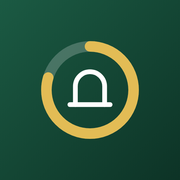
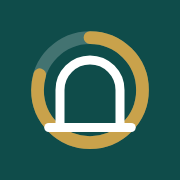
هوية مستقلة لكل تطبيق، وشعارات جديدة، وإدخال وقت البصمة يدويًا
Claude-Session: https://claude.ai/code/session_01ANLGtuhKEonbasyRdgpC9j

diff --git a/portal.html b/portal.html
@@ -1,12 +1,12 @@
 <!doctype html><html lang="ar" dir="rtl"><head><meta charset="utf-8"><meta name="viewport" content="width=device-width,initial-scale=1,viewport-fit=cover">
 <title>بوابة إنجاز · قسم الجاليات</title><meta name="robots" content="noindex"><meta name="theme-color" content="#FFFFFF" media="(prefers-color-scheme: light)"><meta name="theme-color" content="#121715" media="(prefers-color-scheme: dark)"><link rel="icon" type="image/png" href="brand/bawaba-64.png"><link rel="apple-touch-icon" href="brand/bawaba-180.png"><link rel="manifest" href="portal.webmanifest"><meta name="apple-mobile-web-app-capable" content="yes"><meta name="apple-mobile-web-app-title" content="بوابة إنجاز"><meta name="author" content="يوسف عبد المحسن المطيري"><script src="brand/brand.js" data-app="bawaba" defer></script>
-<link rel="preconnect" href="https://fonts.googleapis.com"><link rel="preconnect" href="https://fonts.gstatic.com" crossorigin><link href="https://fonts.googleapis.com/css2?family=IBM+Plex+Sans+Arabic:wght@400;500;600;700&display=swap" rel="stylesheet">
+<link rel="preconnect" href="https://fonts.googleapis.com"><link rel="preconnect" href="https://fonts.gstatic.com" crossorigin><link href="https://fonts.googleapis.com/css2?family=Tajawal:wght@400;500;700&family=Reem+Kufi:wght@500;600;700&display=swap" rel="stylesheet">
 <style>
-:root{--g:#0F5440;--g2:#0B4433;--gs:#E6EFEA;--ink:#14201B;--mu:#5F6B65;--line:#E5E1D6;--bg:#F6F5F0;--card:#FFFFFF;--bad:#A63F33;--bads:#F8E8E5;--w:#8C6416;--ws:#F7EEDB;--gold:#A47E35;--sh:0 1px 2px rgba(20,32,27,.04),0 12px 32px -14px rgba(20,32,27,.10)}
-@media (prefers-color-scheme:dark){:root{--bg:#0F1412;--card:#171D1A;--ink:#E4EAE7;--mu:#98A39E;--line:#26302B;--gs:#1C2A24;--g:#6FB295;--g2:#8CC6AC;--bads:#2D1C19;--ws:#2A2416;--sh:none}}
+:root{--g:#0F4C4A;--g2:#0A3A38;--gs:#E3EEEC;--ink:#10302E;--mu:#5B6B68;--line:#DCD2B6;--bg:#F6F1E3;--card:#FFFCF3;--bad:#A63F33;--bads:#F8E8E5;--w:#8C6416;--ws:#F7EEDB;--gold:#B8893B;--sh:0 1px 2px rgba(20,32,27,.04),0 12px 32px -14px rgba(20,32,27,.10)}
+@media (prefers-color-scheme:dark){:root{--bg:#0C1615;--card:#132120;--ink:#E8EEEC;--mu:#9BADA9;--line:#254240;--gs:#183230;--g:#5FB3AC;--g2:#86CEC8;--bads:#2D1C19;--ws:#2A2416;--sh:none}}
 *{box-sizing:border-box;-webkit-tap-highlight-color:transparent}
 html{-webkit-text-size-adjust:100%}
-body{margin:0;background:var(--bg);color:var(--ink);font:15px/1.65 "IBM Plex Sans Arabic","Segoe UI",Tahoma,sans-serif;-webkit-font-smoothing:antialiased}
+body{margin:0;background:var(--bg);color:var(--ink);font:15px/1.65 "Tajawal","Segoe UI",Tahoma,sans-serif;-webkit-font-smoothing:antialiased}
 button{font:inherit;color:inherit}
 /* top bar ، solid, respects the notch, nothing scrolls behind it */
 .bar{position:sticky;top:0;z-index:10;background:var(--card);border-bottom:1px solid var(--line);padding:calc(10px + env(safe-area-inset-top)) 16px 10px}
@@ -162,7 +162,9 @@ details summary{cursor:pointer;font-size:13.5px;font-weight:600;color:var(--g);l
 [dir=ltr] select{background-position:right 14px center;padding-left:14px;padding-right:36px}
 [dir=ltr] .rowb .row .go{display:inline-block;transform:scaleX(-1)}
 .ij-foot{direction:rtl}
-html[dir=ltr] body{font-family:"IBM Plex Sans Arabic","Segoe UI",system-ui,-apple-system,Roboto,sans-serif}
+html[dir=ltr] body{font-family:"Tajawal","Segoe UI",system-ui,-apple-system,Roboto,sans-serif}
+h1,h2,h3,.bar b{font-family:"Reem Kufi","Tajawal",sans-serif}
+.bar{border-bottom:4px solid #C9A24B}
 </style></head><body>
 <header class="bar"><div class="bar-in"><img class="mark" src="brand/bawaba-192.png" alt="" width="38" height="38" style="object-fit:cover"><div class="bar-t"><b>بوابة إنجاز</b><small id="cm">قسم الجاليات ورعاية المهتدين وطلبة البعوث</small></div><button type="button" class="lg" id="lgb" data-lgsheet aria-label="Language"><svg viewBox="0 0 24 24"><circle cx="12" cy="12" r="9"/><path d="M3 12h18M12 3c2.5 2.7 3.8 5.7 3.8 9s-1.3 6.3-3.8 9c-2.5-2.7-3.8-5.7-3.8-9S9.5 5.7 12 3z"/></svg></button><button type="button" class="av" id="av" hidden data-tab="me"></button></div></header>
 <main class="w" id="app"><div class="spin">جارٍ التحميل…</div></main>
@@ -296,7 +298,7 @@ function vTopic(){const t=TOPIC;if(!t)return'<div class="card empty">لا يوج
  (L==="ar"||!tr?'<h2 style="margin:6px 0 0;font-size:18px">'+e(t.title)+'</h2><div class="circ"><p>'+e(t.points||"").replace(/\n/g,"<br>")+'</p></div>'+(L!=="ar"&&!tr?'<p class="note">الترجمة لهذه اللغة قيد الإعداد.</p>':''):'<h2 dir="auto" style="margin:6px 0 0;font-size:18px">'+e(tr.title)+'</h2><div class="circ"><p dir="auto" style="line-height:2">'+e(tr.text).replace(/\n/g,"<br>")+'</p></div>')+
  '</div><button class="btn ghost" data-tab="home" style="margin-top:10px">رجوع</button>'}
 function certOpen(a){const w=window.open("","_blank");if(!w)return;const mn=new Date(a.month+"-01T00:00").toLocaleDateString("ar-KW-u-nu-latn",{month:"long",year:"numeric"});
- w.document.write('<!doctype html><html lang="ar" dir="rtl"><head><meta charset="utf-8"><meta name="viewport" content="width=device-width,initial-scale=1"><title>شهادة شكر</title><sty'+'le>body{margin:0;font-family:"IBM Plex Sans Arabic",Tahoma,sans-serif;background:#F6F5F0;display:grid;place-items:center;min-height:100vh;padding:16px;box-sizing:border-box}.f{max-width:760px;width:100%;box-sizing:border-box;border:2px solid #A47E35;outline:6px solid #0F5440;outline-offset:5px;background:#fff;display:grid;justify-items:center;gap:12px;text-align:center;padding:40px 24px}.o{color:#5F6B65;font-size:14px;line-height:1.9}.t{font-size:34px;font-weight:700;color:#0F5440}.p{font-size:26px;font-weight:700}.r{font-size:16px;line-height:2}.m{color:#A47E35;font-weight:600}@media print{body{background:#fff}}</sty'+'le></head><body><div class="f"><div class="o">وزارة الشؤون الإسلامية<br>إدارة العلاقات الخارجية · قسم الجاليات ورعاية المهتدين وطلبة البعوث</div><div class="t">شهادة شكر وتقدير</div><div class="o">يتقدّم قسم الجاليات بخالص الشكر والتقدير إلى</div><div class="p">'+e(a.person)+'</div><div class="o">'+(a.kind==="khatib"?"خطيب":"منسق")+' '+e(a.comm)+'</div><div class="r">'+e(a.reason||"")+'</div><div class="m">'+mn+'</div></div></body></html>');w.document.close()}
+ w.document.write('<!doctype html><html lang="ar" dir="rtl"><head><meta charset="utf-8"><meta name="viewport" content="width=device-width,initial-scale=1"><title>شهادة شكر</title><sty'+'le>body{margin:0;font-family:"Tajawal",Tahoma,sans-serif;background:#F6F5F0;display:grid;place-items:center;min-height:100vh;padding:16px;box-sizing:border-box}.f{max-width:760px;width:100%;box-sizing:border-box;border:2px solid #A47E35;outline:6px solid #0F5440;outline-offset:5px;background:#fff;display:grid;justify-items:center;gap:12px;text-align:center;padding:40px 24px}.o{color:#5F6B65;font-size:14px;line-height:1.9}.t{font-size:34px;font-weight:700;color:#0F5440}.p{font-size:26px;font-weight:700}.r{font-size:16px;line-height:2}.m{color:#A47E35;font-weight:600}@media print{body{background:#fff}}</sty'+'le></head><body><div class="f"><div class="o">وزارة الشؤون الإسلامية<br>إدارة العلاقات الخارجية · قسم الجاليات ورعاية المهتدين وطلبة البعوث</div><div class="t">شهادة شكر وتقدير</div><div class="o">يتقدّم قسم الجاليات بخالص الشكر والتقدير إلى</div><div class="p">'+e(a.person)+'</div><div class="o">'+(a.kind==="khatib"?"خطيب":"منسق")+' '+e(a.comm)+'</div><div class="r">'+e(a.reason||"")+'</div><div class="m">'+mn+'</div></div></body></html>');w.document.close()}
 document.addEventListener("change",ev=>{if(ev.target.id==="tl"){LS.s("tl",ev.target.value);draw(vTopic())}},true);
 let WIN=null,WOFF=0,WTICK=null;
 async function loadWin(){try{const w=await rpc("portal_sermon_window",{p_s:S_});if(w&&w.ok){WIN=w;WOFF=new Date(w.now)-Date.now()}}catch(_){}return WIN}

diff --git a/basma/index.html b/basma/index.html
@@ -15,24 +15,24 @@
 <link rel="apple-touch-icon" href="logo-180.png">
 <link rel="icon" type="image/png" href="logo-64.png">
 <link rel="preconnect" href="https://fonts.googleapis.com"><link rel="preconnect" href="https://fonts.gstatic.com" crossorigin>
-<link rel="stylesheet" href="https://fonts.googleapis.com/css2?family=IBM+Plex+Sans+Arabic:wght@400;500;600;700&display=swap">
+<link rel="stylesheet" href="https://fonts.googleapis.com/css2?family=Cairo:wght@400;600;700;800&display=swap">
 <style>
 /* هوية إنجاز «عاجي ملكي». ثلاث تبويبات: اليوم (البصمات الثلاث) — التقرير (شهري) — الإعدادات. */
 :root{
-  --bg:#F5F4F0; --surface:#FFFFFF; --surface-2:#F2F1EC; --ink:#1F2A25; --muted:#6C7872; --line:#E6E3DB;
-  --primary:#2F6B57; --primary-ink:#FFFFFF; --primary-soft:#E9F1ED;
-  --gold:#957631; --gold-soft:#F5EFE0; --bad:#B0564A; --bads:#F7E9E6;
-  --side:#1E3A31; --side-ink:#F2F6F4; --side-muted:#B9CCC3; --top-band:#12291F;
-  --shadow:0 1px 2px rgba(31,42,37,.04),0 6px 20px rgba(31,42,37,.05);
-  --f:"IBM Plex Sans Arabic","Segoe UI",Tahoma,sans-serif;
+  --bg:#EDEAFB; --surface:#FFFFFF; --surface-2:#F4F2FD; --ink:#1D1B3A; --muted:#6B6890; --line:#E4E0F7;
+  --primary:#6D5BF0; --primary-ink:#FFFFFF; --primary-soft:#ECE9FE;
+  --gold:#9A6A0A; --gold-soft:#FFF1B8; --bad:#D9453F; --bads:#FFE4DC;
+  --side:#1D1B3A; --side-ink:#FFFFFF; --side-muted:#B8B5DD; --top-band:#15142E;
+  --shadow:0 1px 2px rgba(29,27,58,.04),0 8px 24px rgba(109,91,240,.08);
+  --f:"Cairo","Segoe UI",Tahoma,sans-serif;
   color-scheme:light;
 }
 @media (prefers-color-scheme:dark){:root{
-  --bg:#111614; --surface:#181E1B; --surface-2:#1E2522; --ink:#E2E8E5; --muted:#97A39D; --line:#28302C;
-  --primary:#74B398; --primary-ink:#0D1512; --primary-soft:#1E2C26;
-  --gold:#D3B46C; --gold-soft:#2A2517; --bad:#E39488; --bads:#2E1D1A;
-  --side:#0F1513; --side-ink:#E2E8E5; --side-muted:#97A39D; --top-band:#0A0F0D;
-  --shadow:0 1px 2px rgba(0,0,0,.3);
+  --bg:#14132A; --surface:#1E1D3A; --surface-2:#262548; --ink:#EEEDFB; --muted:#A3A1CC; --line:#33315A;
+  --primary:#A99CFF; --primary-ink:#14132A; --primary-soft:#2B2860;
+  --gold:#F5C451; --gold-soft:#3A3216; --bad:#FF8A80; --bads:#3A1F25;
+  --side:#0E0D20; --side-ink:#EEEDFB; --side-muted:#A3A1CC; --top-band:#0A0A18;
+  --shadow:none;
   color-scheme:dark;
 }}
 *{box-sizing:border-box}
@@ -218,6 +218,8 @@ button{font:inherit;cursor:pointer;color:inherit}
   opacity:0;transform:translateY(10px);transition:.25s;pointer-events:none;z-index:5}
 #toast.on{opacity:1;transform:none}
 @media (prefers-reduced-motion:reduce){*{transition:none!important;animation:none!important}}
+.card{border-radius:26px}.btn{border-radius:999px}
+.p .man{display:block;padding:2px 0 0;font-size:.8rem;color:var(--primary)}
 </style>
 </head>
 <body>
@@ -664,16 +666,17 @@ function render() {
     const solid = kind === nextKind;
     return `<div class="p p-${kind}${done ? ' is-done' : ''}${solid ? ' is-next' : ''}${locked ? ' is-locked' : ''}">
       <span class="ic"><svg viewBox="0 0 24 24" fill="none" stroke="currentColor" stroke-width="2" stroke-linecap="round" stroke-linejoin="round">${ICONS[kind]}</svg></span>
-      <div class="tx"><div class="nm">${NAMES[kind]}</div><div class="sub">${done ? 'تم التسجيل' : due}</div></div>
+      <div class="tx"><div class="nm">${NAMES[kind]}</div><div class="sub">${done ? 'تم التسجيل' : due}</div>${!done && !locked ? `<button class="link man" data-man="${kind}" type="button">أدخل الوقت بنفسي</button>` : ''}</div>
       ${done ? `<button class="done" data-edit="${kind}" type="button" aria-label="تعديل ${NAMES[kind]}"><b>${fmt(v)}</b><span><svg viewBox="0 0 24 24" width="12" height="12" fill="none" stroke="currentColor" stroke-width="2.2" stroke-linecap="round" stroke-linejoin="round"><path d="M12 20h9"/><path d="M16.5 3.5a2.1 2.1 0 0 1 3 3L7 19l-4 1 1-4z"/></svg>تعديل</span></button>`
              : `<button class="act${solid ? '' : ' soft'}" data-rec="${kind}" type="button"${open && !locked ? '' : ' disabled'}>بصمت</button>`}
     </div>`;
   }).join('');
 }
 $('punches').addEventListener('click', e => {
-  const r = e.target.closest('[data-rec]'), ed = e.target.closest('[data-edit]');
+  const r = e.target.closest('[data-rec]'), ed = e.target.closest('[data-edit]'), mn = e.target.closest('[data-man]');
   if (r) record(r.dataset.rec, nowMin());
   else if (ed) openEditor(ed.dataset.edit);
+  else if (mn) openEditor(mn.dataset.man);
 });
 // عداد حيّ يتحرك كل ثانية للبصمة الجاية
 let TICK = null;
@@ -718,8 +721,9 @@ $('permList').addEventListener('click', async e => {
 });
 function openEditor(kind) {
   editing = kind;
-  const v = (log[dayKey(new Date())] || {})[kind];
-  $('eTitle').textContent = `تعديل وقت ${NAMES[kind]}`;
+  const cur = (log[dayKey(new Date())] || {})[kind], v = cur != null ? cur : Math.max(OPEN, Math.min(nowMin(), CLOSE));
+  $('eTitle').textContent = cur != null ? `تعديل وقت ${NAMES[kind]}` : `وقت ${NAMES[kind]} الفعلي`;
+  $('eDel').hidden = cur == null;
   $('eTime').value = `${pad(Math.floor(v / 60))}:${pad(v % 60)}`;
   $('editor').hidden = false; $('punches').hidden = true;
 }

diff --git a/biz/index.html b/biz/index.html
@@ -13,21 +13,21 @@
 <link rel="apple-touch-icon" href="logo-180.png">
 <link rel="icon" type="image/png" href="logo-64.png">
 <link rel="preconnect" href="https://fonts.googleapis.com"><link rel="preconnect" href="https://fonts.gstatic.com" crossorigin>
-<link rel="stylesheet" href="https://fonts.googleapis.com/css2?family=IBM+Plex+Sans+Arabic:wght@400;500;600;700&display=swap">
+<link rel="stylesheet" href="https://fonts.googleapis.com/css2?family=Noto+Sans+Arabic:wght@400;500;600;700&display=swap">
 <style>
 /* منظومة إنجاز «عاجي ملكي» — --accent يأخذ لون الجهة */
 :root{
-  --bg:#F5F4F0; --surface:#FFFFFF; --surface-2:#F2F1EC; --ink:#1F2A25; --muted:#6C7872; --line:#E6E3DB;
-  --accent:#2F6B57; --accent-ink:#FFFFFF; --accent-fg:var(--accent); --gold:#957631; --gold-soft:#F5EFE0;
-  --ok:#2F7D57; --oks:#E6F2EC; --warn:#946E1F; --warns:#F7F0E1; --bad:#B0564A; --bads:#F7E9E6;
-  --side:#1E3A31; --side-ink:#F2F6F4; --side-muted:#B9CCC3;
-  --shadow:0 1px 2px rgba(31,42,37,.04),0 6px 20px rgba(31,42,37,.05);
-  --f:"IBM Plex Sans Arabic","Segoe UI",Tahoma,sans-serif; color-scheme:light;
+  --bg:#F3F4F6; --surface:#FFFFFF; --surface-2:#F3F4F6; --ink:#0B0B0F; --muted:#6B7280; --line:#E5E7EB;
+  --accent:#2563EB; --accent-ink:#FFFFFF; --accent-fg:var(--accent); --gold:#B45309; --gold-soft:#FEF3C7;
+  --ok:#16A34A; --oks:#DCFCE7; --warn:#B45309; --warns:#FEF3C7; --bad:#DC2626; --bads:#FEE2E2;
+  --side:#0B0B0F; --side-ink:#FFFFFF; --side-muted:#9CA3AF;
+  --shadow:0 1px 2px rgba(11,11,15,.04);
+  --f:"Noto Sans Arabic","Segoe UI",Tahoma,sans-serif; color-scheme:light;
 }
 @media (prefers-color-scheme:dark){:root{
-  --bg:#111614; --surface:#181E1B; --surface-2:#1E2522; --ink:#E2E8E5; --muted:#97A39D; --line:#28302C;
-  --gold:#D3B46C; --gold-soft:#2A2517; --ok:#7CBF9E; --oks:#1B2A23; --warn:#D9B76A; --warns:#2B2618; --bad:#E39488; --bads:#2E1D1A;
-  --side:#0F1513; --side-ink:#E2E8E5; --side-muted:#97A39D; --shadow:0 1px 2px rgba(0,0,0,.3); color-scheme:dark;
+  --bg:#0B0B0F; --surface:#14151A; --surface-2:#1B1C22; --ink:#F3F4F6; --muted:#9CA3AF; --line:#26272E;
+  --gold:#FBBF24; --gold-soft:#2A2410; --ok:#4ADE80; --oks:#11261A; --warn:#FBBF24; --warns:#2A2410; --bad:#F87171; --bads:#2D1517;
+  --side:#000000; --side-ink:#F3F4F6; --side-muted:#9CA3AF; --shadow:none; color-scheme:dark;
   --accent-fg:color-mix(in srgb,var(--accent) 55%,#ffffff);
 }}
 *{box-sizing:border-box} [hidden]{display:none!important} html,body{margin:0}
@@ -173,7 +173,7 @@ let TOKEN = LS.g('t'), ME = null, ORG = null, PEOPLE = [], DEPTS = [], VIEW = 'h
 const KINDS = { gov: 'جهة حكومية', inst: 'مؤسسة', authority: 'هيئة', company: 'شركة' };
 const MODS = { tasks: 'المهام', bookings: 'الحجوزات', requests: 'طلبات العملاء', clients: 'العملاء', news: 'التعاميم' };
 const ST = { new: 'جديدة', doing: 'قيد التنفيذ', done: 'منجزة', review: 'قيد المراجعة', rejected: 'مرفوض', pending: 'بانتظار الموافقة', confirmed: 'مؤكد', cancelled: 'ملغي' };
-const COLORS = ['#2F6B57', '#1F5F8B', '#6B4BB0', '#9B3D4A', '#B8601F', '#3D5A6B', '#957631', '#1E3A31'];
+const COLORS = ['#2563EB', '#0F766E', '#7C3AED', '#DC2626', '#EA580C', '#0B0B0F', '#CA8A04', '#475569'];
 const ROLE = { owner: 'المالك', admin: 'مدير', member: 'موظف' };
 const label = k => (ORG?.labels?.[k]) || MODS[k];
 const isAdmin = () => ME && (ME.role === 'owner' || ME.role === 'admin');
@@ -241,7 +241,7 @@ function renderNav() {
   $('nav').innerHTML = items.map(([k, l]) => `<button type="button" data-go="${k}"${VIEW === k || (k === 'more' && ['clients', 'team', 'settings', 'news'].includes(VIEW)) ? ' aria-current="page"' : ''}><svg viewBox="0 0 24 24" fill="none" stroke="currentColor" stroke-width="1.9" stroke-linecap="round" stroke-linejoin="round">${IC[k]}</svg><span>${esc(l)}</span></button>`).join('');
 }
 function applyOrg() {
-  document.documentElement.style.setProperty('--accent', ORG.color || '#2F6B57');
+  document.documentElement.style.setProperty('--accent', ORG.color || '#2563EB');
   $('orgName').textContent = ORG.name; $('orgSub').textContent = `${KINDS[ORG.kind] || ''} · ${ME.name} (${ROLE[ME.role]})`;
   document.title = ORG.name + ' — إنجاز أعمال';
 }

diff --git a/biz/portal/index.html b/biz/portal/index.html
@@ -9,18 +9,21 @@
 <link rel="icon" type="image/png" href="../../brand/bawaba-64.png">
 <link rel="apple-touch-icon" href="../../brand/bawaba-180.png">
 <link rel="preconnect" href="https://fonts.googleapis.com"><link rel="preconnect" href="https://fonts.gstatic.com" crossorigin>
-<link rel="stylesheet" href="https://fonts.googleapis.com/css2?family=IBM+Plex+Sans+Arabic:wght@400;500;600;700&display=swap">
+<link rel="stylesheet" href="https://fonts.googleapis.com/css2?family=Noto+Sans+Arabic:wght@400;500;600;700&display=swap">
 <style>
 :root{
-  --bg:#F5F4F0; --surface:#FFFFFF; --surface-2:#F2F1EC; --ink:#1F2A25; --muted:#6C7872; --line:#E6E3DB;
-  --accent:#2F6B57; --ok:#2F7D57; --oks:#E6F2EC; --gold:#957631; --gold-soft:#F5EFE0; --bad:#B0564A; --bads:#F7E9E6; --warn:#946E1F; --warns:#F7F0E1;
-  --side:#1E3A31; --side-ink:#F2F6F4; --side-muted:#B9CCC3;
-  --shadow:0 1px 2px rgba(31,42,37,.04),0 6px 20px rgba(31,42,37,.05); --f:"IBM Plex Sans Arabic","Segoe UI",Tahoma,sans-serif; color-scheme:light;
+  --bg:#F3F4F6; --surface:#FFFFFF; --surface-2:#F3F4F6; --ink:#0B0B0F; --muted:#6B7280; --line:#E5E7EB;
+  --accent:#2563EB; --accent-ink:#FFFFFF; --accent-fg:var(--accent); --gold:#B45309; --gold-soft:#FEF3C7;
+  --ok:#16A34A; --oks:#DCFCE7; --warn:#B45309; --warns:#FEF3C7; --bad:#DC2626; --bads:#FEE2E2;
+  --side:#0B0B0F; --side-ink:#FFFFFF; --side-muted:#9CA3AF;
+  --shadow:0 1px 2px rgba(11,11,15,.04);
+  --f:"Noto Sans Arabic","Segoe UI",Tahoma,sans-serif; color-scheme:light;
 }
 @media (prefers-color-scheme:dark){:root{
-  --bg:#111614; --surface:#181E1B; --surface-2:#1E2522; --ink:#E2E8E5; --muted:#97A39D; --line:#28302C;
-  --ok:#7CBF9E; --oks:#1B2A23; --gold:#D3B46C; --gold-soft:#2A2517; --bad:#E39488; --bads:#2E1D1A; --warn:#D9B76A; --warns:#2B2618;
-  --side:#0F1513; --side-ink:#E2E8E5; --side-muted:#97A39D; --shadow:0 1px 2px rgba(0,0,0,.3); color-scheme:dark;
+  --bg:#0B0B0F; --surface:#14151A; --surface-2:#1B1C22; --ink:#F3F4F6; --muted:#9CA3AF; --line:#26272E;
+  --gold:#FBBF24; --gold-soft:#2A2410; --ok:#4ADE80; --oks:#11261A; --warn:#FBBF24; --warns:#2A2410; --bad:#F87171; --bads:#2D1517;
+  --side:#000000; --side-ink:#F3F4F6; --side-muted:#9CA3AF; --shadow:none; color-scheme:dark;
+  --accent-fg:color-mix(in srgb,var(--accent) 55%,#ffffff);
 }}
 *{box-sizing:border-box} [hidden]{display:none!important} html,body{margin:0}
 body{background:var(--bg);color:var(--ink);font:15px/1.65 var(--f);-webkit-font-smoothing:antialiased}
@@ -115,7 +118,7 @@ async function submit(e) {
 (async () => {
   try {
     INFO = await call('portal_info', {});
-    const o = INFO.org; document.documentElement.style.setProperty('--accent', o.color || '#2F6B57');
+    const o = INFO.org; document.documentElement.style.setProperty('--accent', o.color || '#2563EB');
     $('oName').textContent = o.name; $('oSub').textContent = (KINDS[o.kind] || '') + ' · بوابة العملاء'; $('dot').textContent = o.name.trim()[0] || 'إ';
     if (o.logo) $('dot').outerHTML = `<img src="${o.logo}" alt="" style="width:44px;height:44px;border-radius:12px;object-fit:cover;flex:none">`;
     document.title = o.name + ' — بوابة العملاء'; render();

diff --git a/brand/brand.js b/brand/brand.js
@@ -17,12 +17,16 @@
     biz: '<rect x="15" y="20" width="18" height="13" rx="2.5"/><path d="M20.5 20v-2.2a1.6 1.6 0 0 1 1.6-1.6h3.8a1.6 1.6 0 0 1 1.6 1.6V20"/><path d="M15 26h18"/>',
     basma: '<path d="M18 33c1.5-3 2-6 2-9a4 4 0 0 1 8 0c0 3.5-.6 7-2 10"/><path d="M24 24c0 4-1 7.5-2.6 10.5"/><path d="M15 29.5c.6-1.5 1-3.4 1-5.5a8 8 0 0 1 16 0c0 2-.2 4-.6 6"/><path d="M17 17.5a10.5 10.5 0 0 1 14 0"/>',
   };
+  var THEME = {
+    injaz: ['#1B5A43', '#E2BC55'], biz: ['#0B0B0F', '#2563EB'],
+    bawaba: ['#0F4C4A', '#C9A24B'], basma: ['#6D5BF0', '#FFE27A']
+  };
   var NAMES = { injaz: 'إنجاز', biz: 'إنجاز أعمال', bawaba: 'بوابة إنجاز', basma: 'بصمة إنجاز' };
   function mark(k, size) {
     return '<svg class="ij-mark" width="' + size + '" height="' + size + '" viewBox="0 0 48 48" aria-hidden="true">' +
-      '<rect width="48" height="48" rx="11" fill="#1B5A43"/>' +
+      '<rect width="48" height="48" rx="11" fill="' + THEME[k][0] + '"/>' +
       '<circle cx="24" cy="24" r="14" fill="none" stroke="rgba(255,255,255,.22)" stroke-width="3.4"/>' +
-      '<circle cx="24" cy="24" r="14" fill="none" stroke="#E2BC55" stroke-width="3.4" stroke-linecap="round" stroke-dasharray="70 100" transform="rotate(-90 24 24)"/>' +
+      '<circle cx="24" cy="24" r="14" fill="none" stroke="' + THEME[k][1] + '" stroke-width="3.4" stroke-linecap="round" stroke-dasharray="70 100" transform="rotate(-90 24 24)"/>' +
       '<g fill="none" stroke="#fff" stroke-width="2.4" stroke-linecap="round" stroke-linejoin="round">' + GLYPH[k] + '</g></svg>';
   }
   window.InjazBrand = { owner: OWNER, copy: COPY, mark: mark, names: NAMES };
@@ -49,7 +53,7 @@
     f.className = 'ij-foot';
     f.setAttribute('lang', 'ar');
     f.innerHTML = '<div class="ij-fam" aria-label="منظومة إنجاز">' +
-      ['injaz', 'biz', 'bawaba', 'basma'].map(function (k) {
+      ['injaz', 'biz', 'bawaba', 'basma'].filter(function (k) { return k !== 'injaz' || app === 'injaz'; }).map(function (k) {
         return '<span class="' + (k === app ? 'on' : '') + '">' + mark(k, 18) + NAMES[k] + '</span>';
       }).join('') + '</div><p class="ij-copy">' + COPY_HTML + '</p>';
     return f;

diff --git a/biz/sw.js b/biz/sw.js
@@ -1,4 +1,4 @@
-const C = 'biz-v7';
+const C = 'biz-v8';
 self.addEventListener('install', e => { self.skipWaiting(); e.waitUntil(caches.open(C).then(c => c.addAll(['./', 'index.html', 'manifest.webmanifest', 'logo-192.png', 'logo-180.png', 'catalog.js', 'modules.js', 'design.js'])).catch(() => {})); });
 self.addEventListener('activate', e => e.waitUntil(caches.keys().then(ks => Promise.all(ks.filter(k => k.startsWith('biz-') && k !== C).map(k => caches.delete(k)))).then(() => self.clients.claim())));
 self.addEventListener('fetch', e => {

diff --git a/basma/sw.js b/basma/sw.js
@@ -1,4 +1,4 @@
-const C = 'basma-v23';
+const C = 'basma-v25';
 const FILES = ['./', 'index.html', 'manifest.webmanifest', 'logo-192.png', 'logo-180.png', 'logo-64.png'];
 
 self.addEventListener('install', e => {

diff --git a/docs/BRAND.md b/docs/BRAND.md
@@ -22,3 +22,16 @@
 
 لا دمج: كل موقع يبقى مستقلًا بملفاته ودخوله. المشترك فقط: الاسم والشعار والألوان وسطر الحقوق.
 أي موقع جديد ضمن المنظومة يأخذ اسم «… إنجاز»، وشعارًا بنفس القالب برمز مختلف، ويستدعي `brand/brand.js`.
+
+## هوية مستقلة لكل تطبيق (أكتوبر 2026)
+
+لكل تطبيق ألوانه وخطه وشعاره (الألوان متغيّرات CSS في أول كل ملف، وشعارات PNG مولّدة من `brand/brand.js`):
+
+| التطبيق | الاتجاه | الأساس | الخط |
+|---|---|---|---|
+| إنجاز أعمال | نقي | أسود وأزرق `#2563EB` | Noto Sans Arabic |
+| بصمة إنجاز | بنتو | بنفسجي `#6D5BF0` | Cairo |
+| بوابة إنجاز | نقش | أخضر زيتي `#0F4C4A` وذهبي `#C9A24B` | Tajawal + Reem Kufi |
+| إنجاز (الجاليات) | خاص — لم يتغيّر | عاجي ملكي | IBM Plex Sans Arabic |
+
+بصمة تعمل على مشروع Supabase الخاص بإنجاز أعمال (`pelkiufonckxdhdlqfas`)، منفصلة عن نظام الجاليات.
